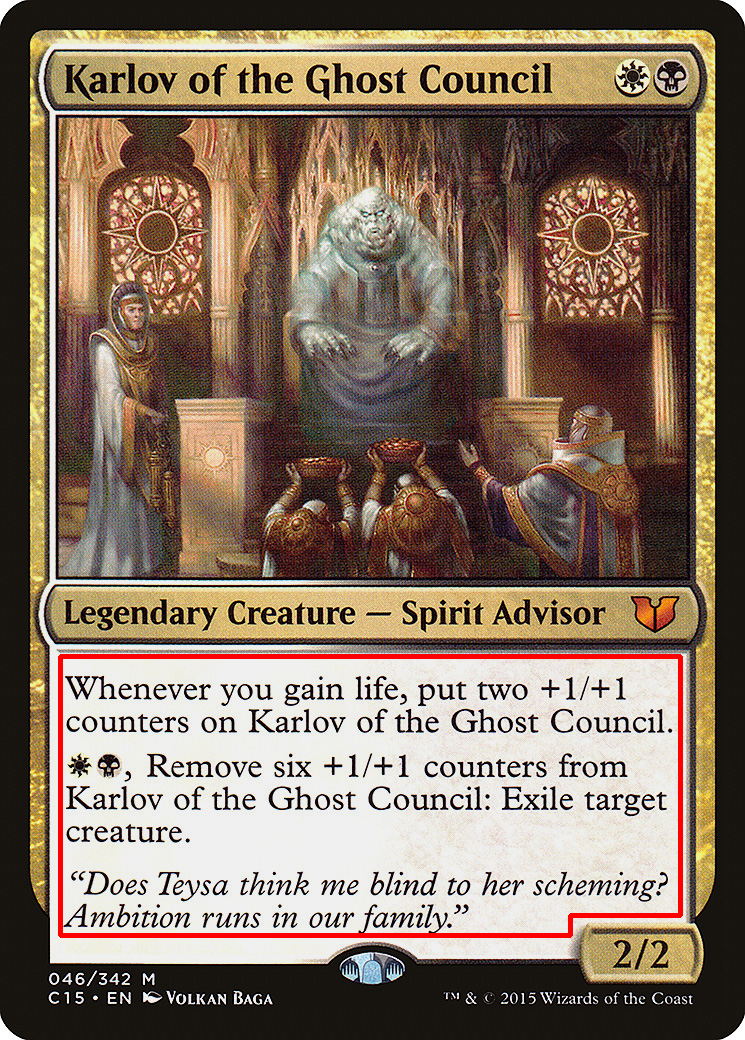
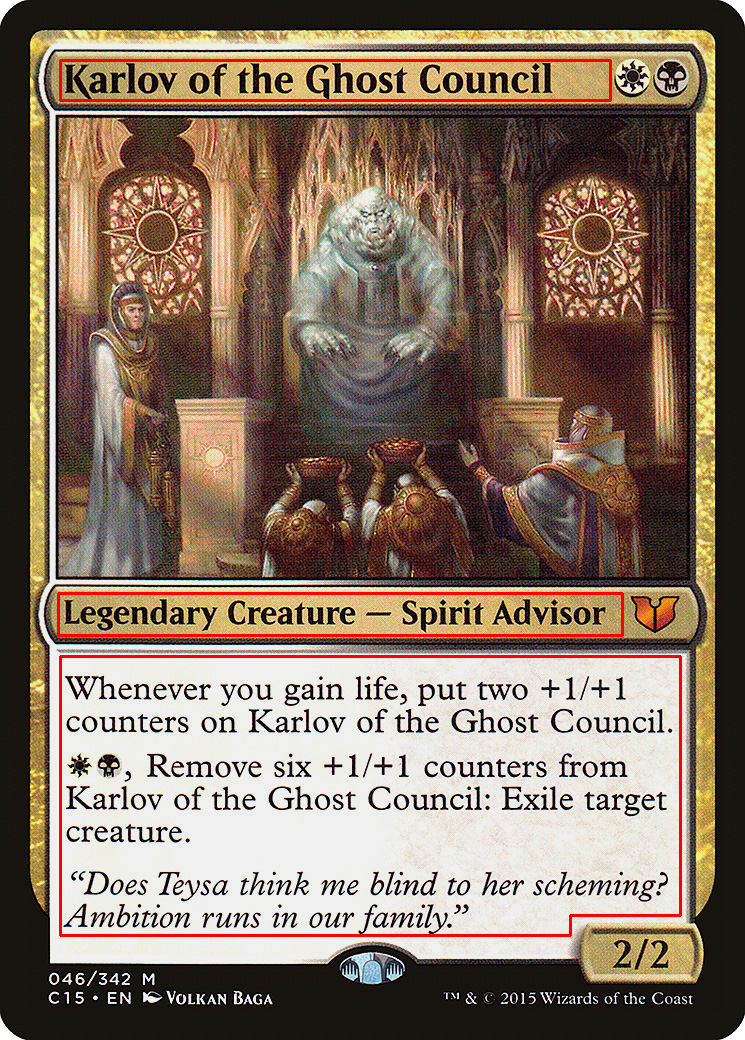
inpainting finalizado + mudança de nomes

diff --git a/limpar.py b/limpar.py
@@ -1,0 +1,36 @@
+import cv2
+import numpy as np
+
+bloco_texto = np.array([
+    [60,656],[680,656], 
+    [680,915],[570,915],   
+    [570,935],[60,935]], dtype=np.int32)
+
+bloco_tipo = np.array([(58,593),(622,593),
+                       (622,635),(58,635)], dtype=np.int32)
+
+bloco_nome = np.array([(60,60),(610,60),
+                       (610,100),(60,100)], dtype=np.int32)
+
+
+def limpar(carta,texto,tipo,nome):
+    img = cv2.imread(carta)
+    mask = np.zeros(img.shape[:2], dtype=np.uint8)
+
+
+    cv2.fillPoly(mask, [texto], 255)
+    cv2.fillPoly(mask, [tipo], 255)
+    cv2.fillPoly(mask, [nome], 255)
+
+    carta_limpa = cv2.inpaint(img, mask, 3, cv2.INPAINT_TELEA)
+
+    if __name__ == '__main__':
+        debug = img.copy()
+        cv2.polylines(debug, [texto], True, (0,0,255), 2)
+        cv2.polylines(debug, [tipo], True, (0,0,255), 2)
+        cv2.polylines(debug, [nome], True, (0,0,255), 2)
+        cv2.imwrite("polly.png", debug)
+
+    cv2.imwrite("resultado.png", carta_limpa)
+
+limpar('karlov.png',bloco_texto,bloco_tipo,bloco_nome)

diff --git a/front.py b/front.py
@@ -10,13 +10,12 @@ def restaurar_placeholder(event):
         caixa_texto.insert("1.0", "20 Mountain\n2 BLACK LOTUS\n1 aang's journey")
         caixa_texto.config(fg="#937460")
 def pegar_texto():
-    # '1.0' significa: linha 1, caractere 0 (o início)
-    # tk.END significa: até o final do conteúdo
     user_input = caixa_texto.get("1.0", tk.END)
-    print(user_input)        
+    print(user_input)    
+        
 janela = tk.Tk()
 janela.title("BRASIL proxy")
-janela.geometry("340x320")
+janela.geometry("380x320")
 janela.configure(bg='#938f71')
 janela.resizable(False, False)
 
